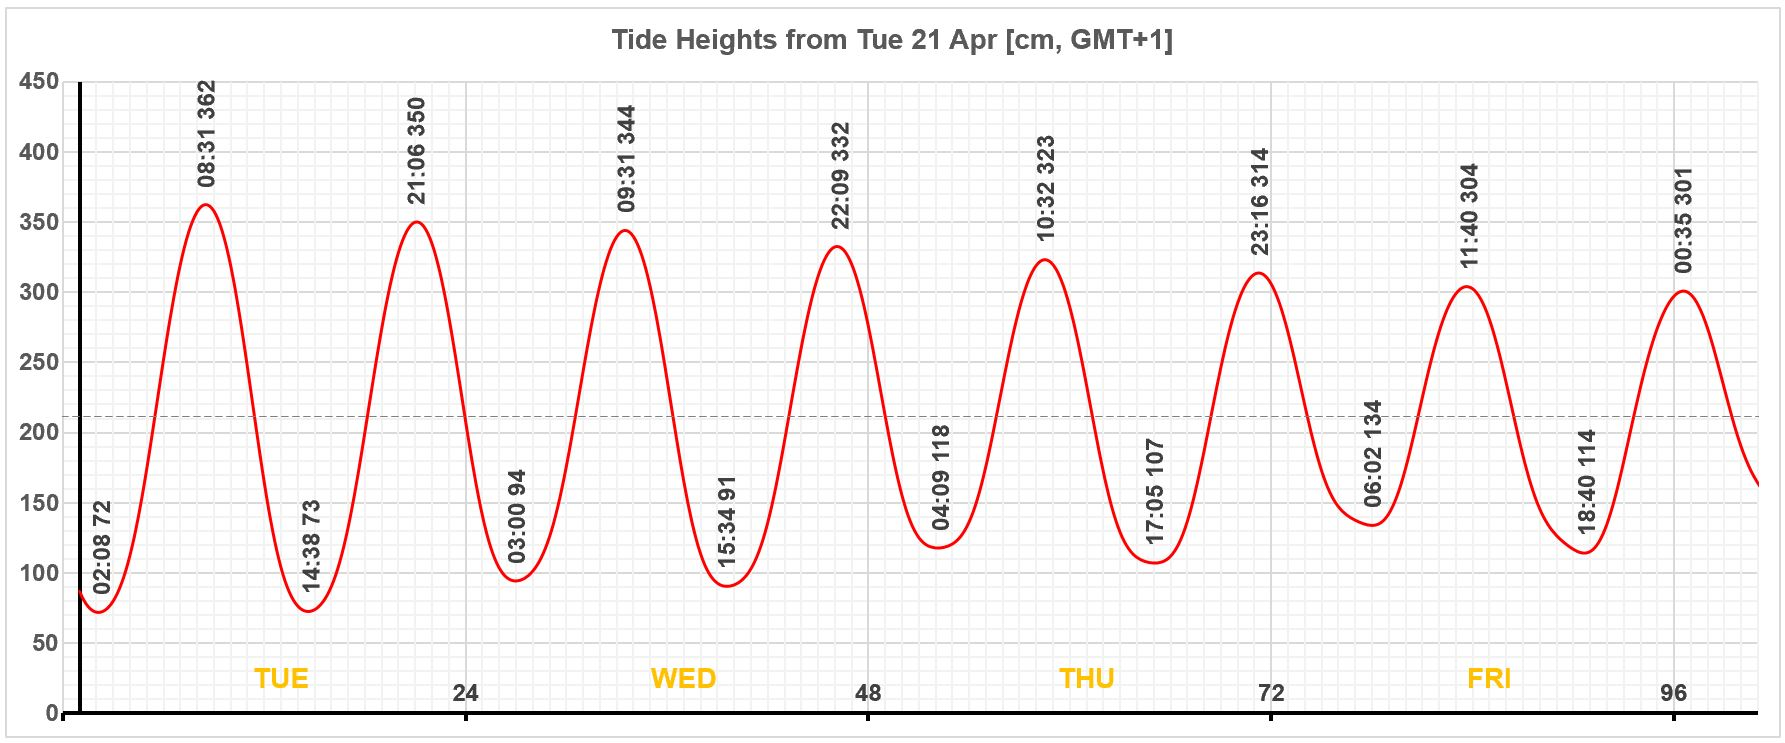
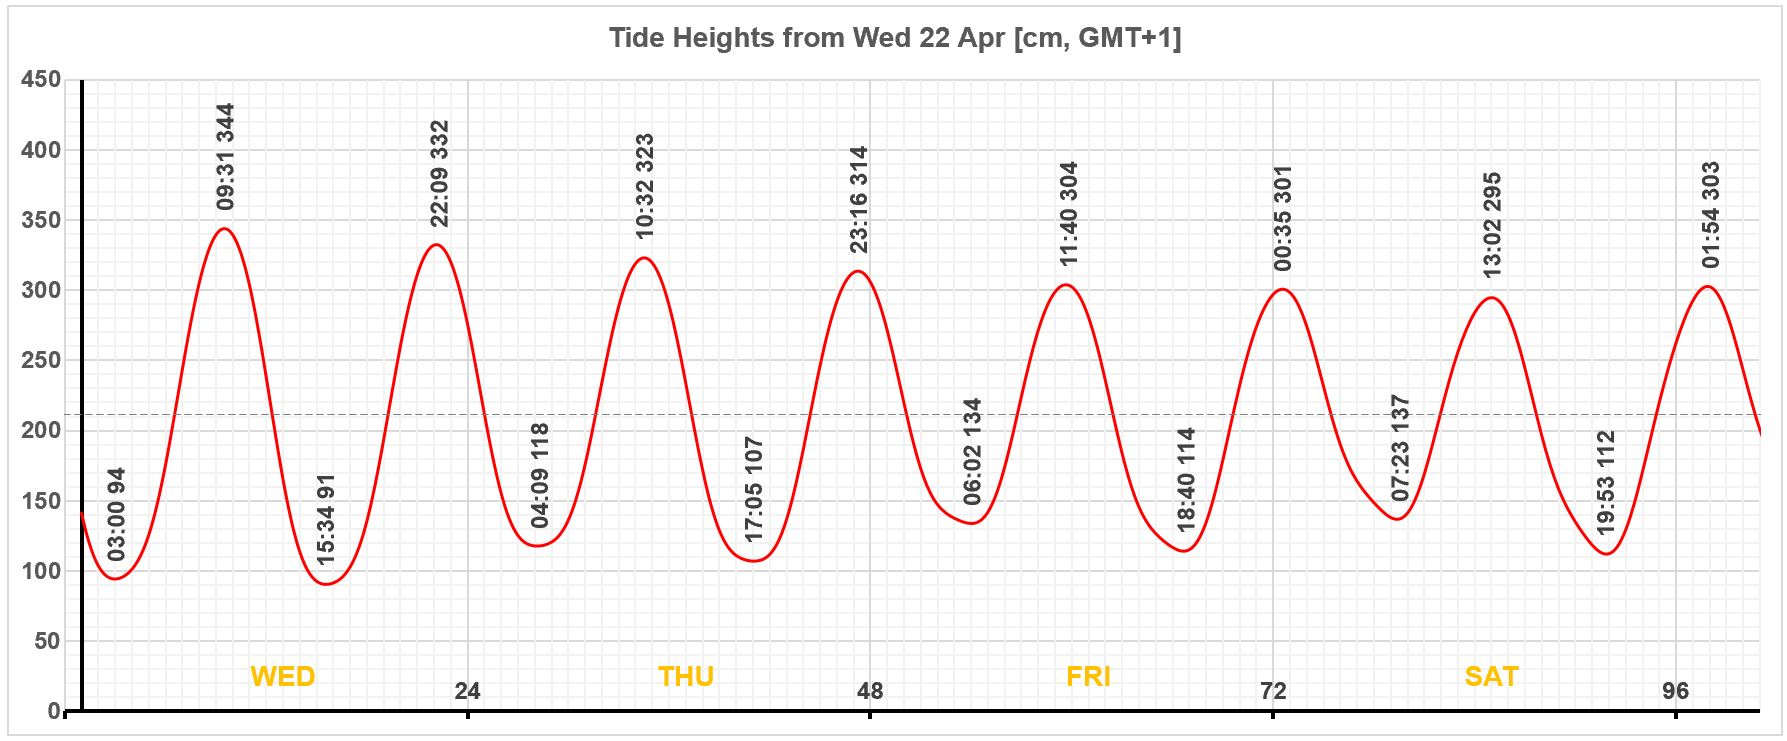
Add files via upload

diff --git a/index.html b/index.html
@@ -158,12 +158,8 @@ dark skies, stellar magnitude, moon, Luna, Mercury, Venus, Mars, Jupiter, Saturn
 					<table bgcolor="blue" height="2240" width="289" cellpadding="0" cellspacing="0" border="0">
 						<tr>
 							<td id="recent_posts_list" valign="top">
-									<li><b>Our Predicted Tides at Baltimore<br />(GMT+1) (</b><a href="tides.html">explainer, daily & full-year charts & data</a>)<br /><hr /></li>
+									<li><b>Predicted Tides at Baltimore Pier<br />(GMT+1) (</b><a href="tides.html">explainer, daily & full-year charts & data</a>)<br /><hr /></li>
 
-Tue 21 Apr 2026  Low: 02:08  0.72m<br />
-Tue 21 Apr 2026  High: 08:31  3.62m<br />
-Tue 21 Apr 2026  Low: 14:38  0.73m<br />
-Tue 21 Apr 2026  High: 21:06  3.50m<br />
 Wed 22 Apr 2026  Low: 03:00  0.94m<br />
 Wed 22 Apr 2026  High: 09:31  3.44m<br />
 Wed 22 Apr 2026  Low: 15:34  0.91m<br />
@@ -179,6 +175,10 @@ Fri 24 Apr 2026  High: 00:35  3.01m<br />
 Sat 25 Apr 2026  Low: 07:23  1.37m<br />
 Sat 25 Apr 2026  High: 13:02  2.95m<br />
 Sat 25 Apr 2026  Low: 19:53  1.12m<br />
+Sun 26 Apr 2026  High: 01:54  3.03m<br />
+Sun 26 Apr 2026  Low: 08:29  1.30m<br />
+Sun 26 Apr 2026  High: 14:17  3.02m<br />
+Sun 26 Apr 2026  Low: 20:53  1.04m<br />
 
 (** = Full Moon  * = New Moon)
 									<br /><br />